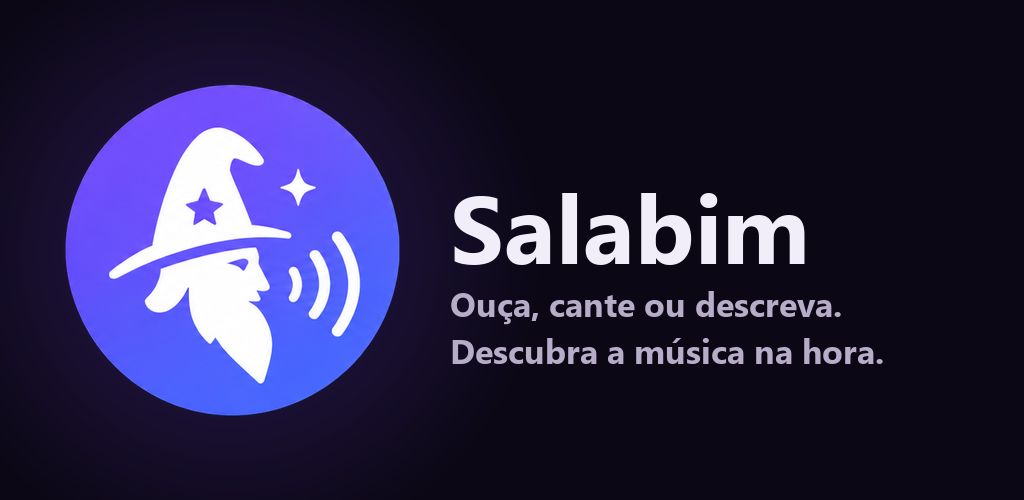
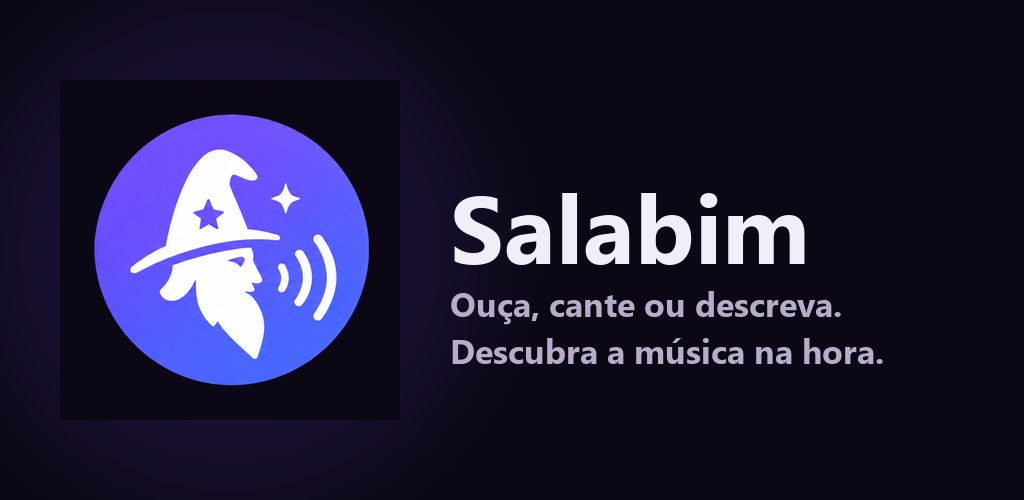
Ícone da loja: fundo escuro sólido em vez de transparente
Pedido do usuário com referência visual: fundo #0B0714 (mesma cor de
fundo do app) preenchendo o quadrado 512x512 inteiro, com o círculo do
bruxo centralizado com margem — deixa a Play Store aplicar a própria
máscara (círculo/squircle) por cima, em vez de já entregar cantos
arredondados pré-cortados.

Changed region(s): [[0.0312, 0.15, 0.4062, 0.84]]

diff --git a/devops/assets/generate_store_assets.py b/devops/assets/generate_store_assets.py
@@ -19,12 +19,17 @@ PRIMARY = (124, 77, 255, 255)  # AppColors.primary #7C4DFF
 
 def make_icon() -> None:
     src = Image.open(ICONS_DIR / "salabim_icon.png").convert("RGBA")
-    # Redimensiona mantendo proporção, depois centraliza num canvas 512x512
-    # exato (o ícone original não é perfeitamente quadrado: 465x466).
-    canvas = Image.new("RGBA", (512, 512), (0, 0, 0, 0))
-    src_resized = src.resize((512, int(512 * src.height / src.width)), Image.LANCZOS)
-    if src_resized.height > 512:
-        src_resized = src.resize((int(512 * src.width / src.height), 512), Image.LANCZOS)
+    # Fundo escuro sólido (não transparente) preenchendo o quadrado
+    # inteiro 512x512 — a Play Store aplica a própria máscara (círculo,
+    # squircle etc. conforme o launcher do aparelho) por cima, então o
+    # ideal é entregar um quadrado cheio, não um ícone já arredondado.
+    canvas = Image.new("RGBA", (512, 512), BG)
+    # Uma margem em volta do círculo do bruxo, do jeito que aparece no
+    # mockup de referência — não cola o círculo direto na borda.
+    target = int(512 * 0.82)
+    src_resized = src.resize((target, int(target * src.height / src.width)), Image.LANCZOS)
+    if src_resized.height > target:
+        src_resized = src.resize((int(target * src.width / src.height), target), Image.LANCZOS)
     x = (512 - src_resized.width) // 2
     y = (512 - src_resized.height) // 2
     canvas.paste(src_resized, (x, y), src_resized)
